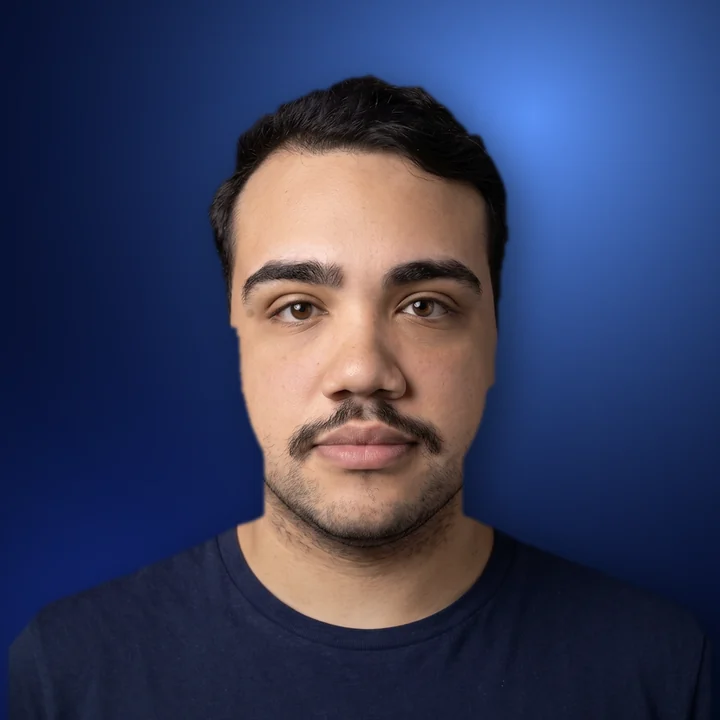
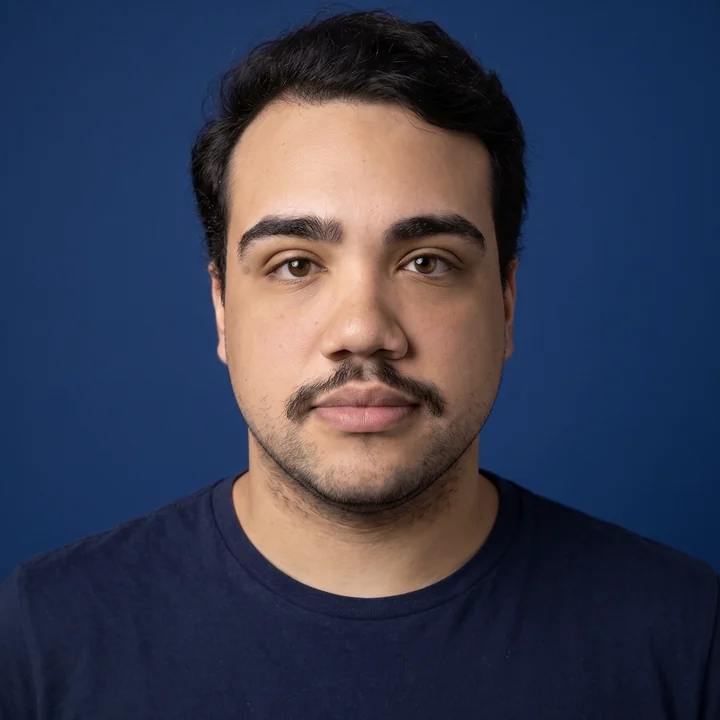
Widget da foto: usa a foto original de estúdio, com o rosto inteiro
O recorte de winiston-hero.png cortava as orelhas reto dos lados do rosto.
A foto vem agora de assets/foto.png, sem recorte, e a legenda ficou mais
compacta pra cair na camiseta e não no queixo.

diff --git a/src/components/desktop/mesa.css b/src/components/desktop/mesa.css
@@ -153,10 +153,11 @@ body:has(.mesa) .site-header {
   inset: auto 0 0;
   display: flex;
   flex-direction: column;
-  padding: 30px 14px 12px;
-  font-size: 11.5px;
+  padding: 18px 12px 9px;
+  font-size: 10.5px;
+  line-height: 1.25;
   color: rgba(255, 255, 255, 0.78);
-  background: linear-gradient(to top, rgba(4, 8, 24, 0.82), transparent);
+  background: linear-gradient(to top, rgba(4, 8, 24, 0.85), rgba(4, 8, 24, 0.35) 60%, transparent);
 }
 
 .widget__legenda > * ,
@@ -167,7 +168,7 @@ body:has(.mesa) .site-header {
 }
 
 .widget__legenda strong {
-  font-size: 14px;
+  font-size: 12.5px;
   font-weight: 600;
   color: #fff;
 }
